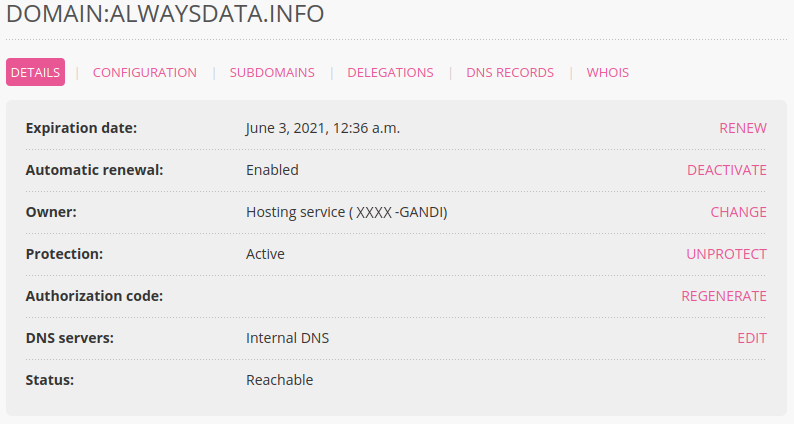
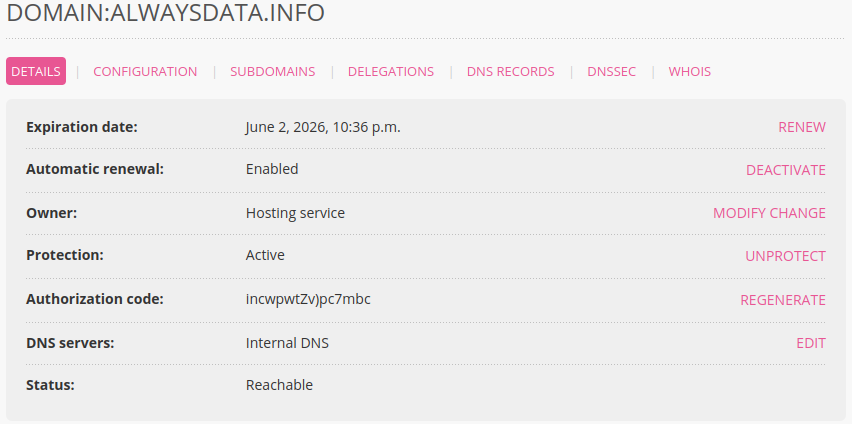
Management domain contact menu removed

diff --git a/content/domains/update-owner-details/index.fr.md b/content/domains/update-owner-details/index.fr.md
@@ -6,14 +6,10 @@ hidden = true
 tags = ["domaine"]
 +++
 
-Chaque domaine est lié à un utilisateur propriétaire. Rendez-vous dans **Domaines > Gestion des contacts** pour trouver la liste des utilisateurs domaines.
-
-{{< fig "images/admin-domains-contacts.fr.png" "" >}}
-
-Vous pourrez changer l'adresse, l'email et le numéro de téléphone.
-
-Pour connaître quel utilisateur est lié à un domaine rendez-vous dans les détails du domaine :
+Chaque domaine est lié à un utilisateur propriétaire. Pour connaître quel utilisateur est lié à un domaine rendez-vous dans **Domaines > Détails de [example.org] - 🔎** :
 
 {{< fig "images/admin-domains-details.fr.png" "" >}}
+
+Vous pourrez changer, via le bouton **MODIFIER** (en face de **Propriétaire**), l'adresse, l'email et le numéro de téléphone.
 
 Pour modifier le nom du propriétaire ou l'entreprise tournez-vous vers le [changement de propriétaire](domains/change-of-owner).

diff --git a/content/domains/update-owner-details/index.en.md b/content/domains/update-owner-details/index.en.md
@@ -5,14 +5,10 @@ hidden = true
 tags = ["domain"]
 +++
 
-Each domain is linked to a specific owner user. Go to **Domains > Contact management** to find the list of domain users.
-
-{{< fig "images/admin-domains-contacts.en.png" "" >}}
-
-You will be able to change the address, email and phone number.
-
-To find out which user is linked to a domain go to the domain details:
+Each domain is linked to a specific owner user. To find out which user is linked to a domain go to **Domains > Details of [example.org] - 🔎**:
 
 {{< fig "images/admin-domains-details.en.png" "" >}}
+
+You can change the address, email, and phone number using the **MODIFY** button (opposite **Owner**).
 
 To change the name of the owner or the company turn to [change of ownership](domains/change-of-owner).
